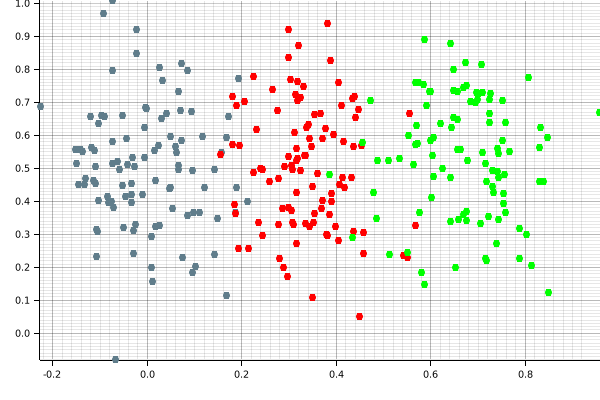
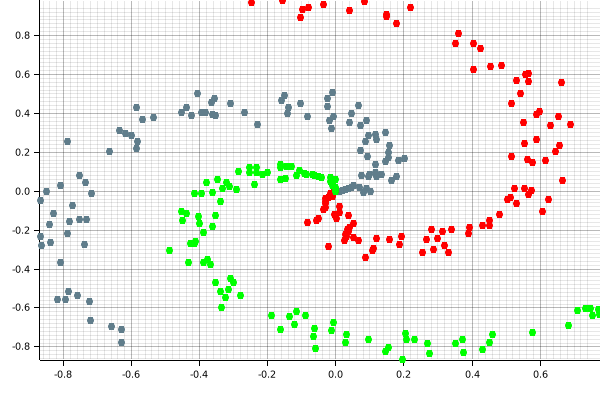
Chapter 6

diff --git a/src/ch6.rs b/src/ch6.rs
@@ -1,5 +1,5 @@
 use crate::{
-    activation_functions::ReLU,
+    activation_functions::{ReLU, Softmax},
     loss_functions::{Loss, LossCategoricalCrossentropy},
     neurons::LayerDense, analysis_functions::get_accuracy,
 };
@@ -15,7 +15,7 @@ pub fn run() {
     let mut dense1 = LayerDense::new(2, 3);
     let mut activation1 = ReLU::new();
     let mut dense2 = LayerDense::new(3, 3);
-    let mut activation2 = ReLU::new();
+    let mut activation2 = Softmax::new();
 
     // loss function
     let loss_function = LossCategoricalCrossentropy::new();
@@ -27,15 +27,15 @@ pub fn run() {
     let mut best_dense2_weights = dense2.weights.clone();
     let mut best_dense2_biases = dense2.biases.clone();
 
-    let training_rate = 0.05;
+    let training_rate = 0.005;
 
     // train the model
-    for iteration in 0..10000 {
+    for iteration in 0..100000 {
         // generate a new set of weights for iteration
-        dense1.weights = Array2::random((2, 3), Normal::new(0., training_rate).unwrap());
-        dense1.biases = Array1::random(3, Normal::new(0., training_rate).unwrap());
-        dense2.weights = Array2::random((3, 3), Normal::new(0., training_rate).unwrap());
-        dense2.biases = Array1::random(3, Normal::new(0., training_rate).unwrap());
+        dense1.weights = Array2::random((2, 3), Normal::new(0., training_rate).unwrap()) + &best_dense1_weights;
+        dense1.biases = Array1::random(3, Normal::new(0., training_rate).unwrap()) + &best_dense1_biases;
+        dense2.weights = Array2::random((3, 3), Normal::new(0., training_rate).unwrap()) + &best_dense2_weights;
+        dense2.biases = Array1::random(3, Normal::new(0., training_rate).unwrap()) + &best_dense2_biases;
 
         // perform a forward pass of our training data through this layer
         dense1.forward(&data);

diff --git a/src/main.rs b/src/main.rs
@@ -1,5 +1,5 @@
 use nnfs_rust as nnfs;
 
 fn main() {
-    nnfs::ch5::run();
+    nnfs::ch6::run();
 }

diff --git a/src/lib.rs b/src/lib.rs
@@ -1,3 +1,5 @@
+#![allow(dead_code, unused)]
+
 pub mod ch2;
 pub mod ch3;
 pub mod ch4;
